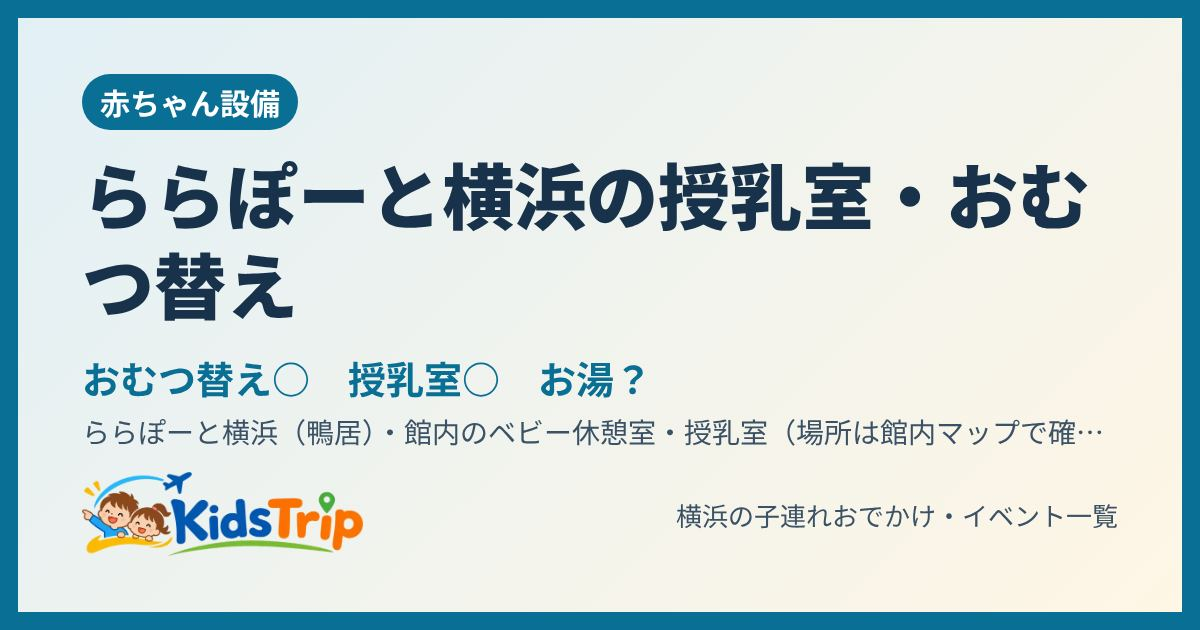
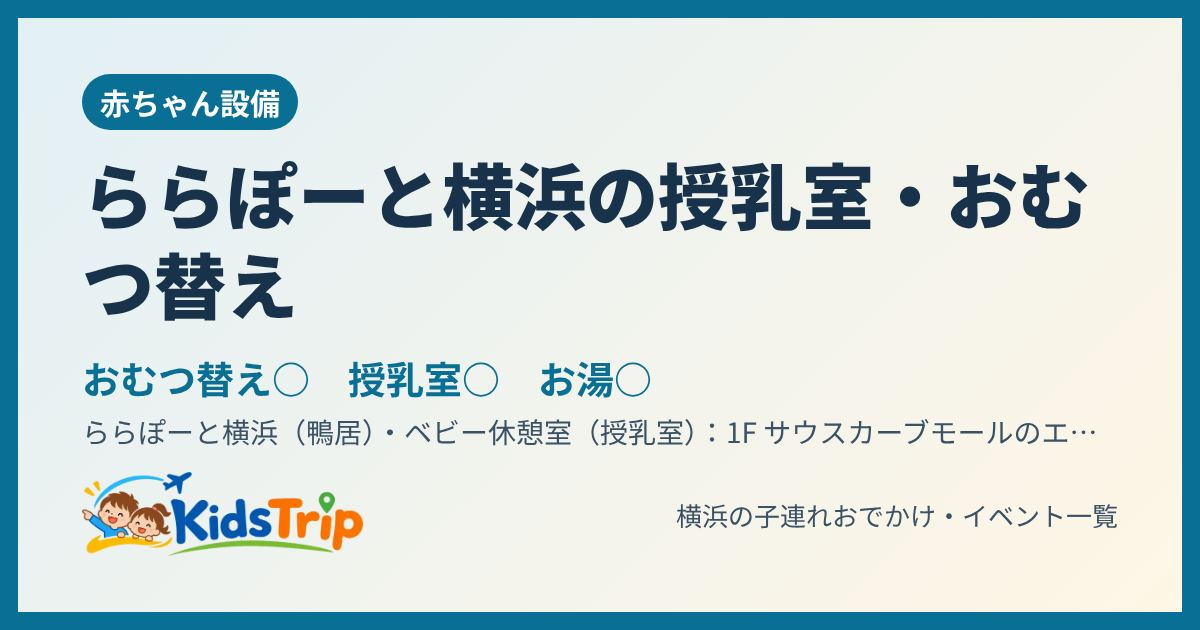
ららぽーと横浜（授乳室3か所・給湯器・レンジ・mamaroはパパ可）、こどもの国（授乳室4か所・ミルクプラントの電子レンジ・ベビーカー料金）を公式で詳しく
Claude-Session: https://claude.ai/code/session_014AtJ2fHfJAqHs7WQwJHXLv

Changed region(s): [[0.3392, 0.6635, 0.925, 0.7238], [0.4933, 0.573, 0.555, 0.6333]]

diff --git a/spot/1sx8mms/index.html b/spot/1sx8mms/index.html
@@ -3,13 +3,13 @@
 <head>
 <meta charset="utf-8">
 <meta name="viewport" content="width=device-width, initial-scale=1">
-<title>ららぽーと横浜の授乳室・おむつ替え・お湯・電子レンジ｜KidsTrip</title>
-<meta name="description" content="ららぽーと横浜（ららぽーと横浜（鴨居））の授乳室・おむつ替えの場所：館内のベビー休憩室・授乳室（場所は館内マップで確認）／設置型ベビーケアルーム「mamaro」。おむつ替え・授乳室・離乳食のレンジあり。">
+<title>ららぽーと横浜の授乳室は何階？おむつ替え・お湯・電子レンジ｜KidsTrip</title>
+<meta name="description" content="ららぽーと横浜（ららぽーと横浜（鴨居））の授乳室・おむつ替えの場所：ベビー休憩室（授乳室）：1F サウスカーブモールのエスカレーター付近／2F ノースコートのエレベーターホール横／3F ノースコートの北立体駐車場P4・5F連絡口付近。mamaro：1F セントラルモール／2F フードコート（ノースカ">
 <link rel="canonical" href="https://kidstrip.jp/spot/1sx8mms/">
 <meta property="og:type" content="article">
 <meta property="og:site_name" content="KidsTrip">
-<meta property="og:title" content="ららぽーと横浜の授乳室・おむつ替え・お湯・電子レンジ｜KidsTrip">
-<meta property="og:description" content="ららぽーと横浜（ららぽーと横浜（鴨居））の授乳室・おむつ替えの場所：館内のベビー休憩室・授乳室（場所は館内マップで確認）／設置型ベビーケアルーム「mamaro」。おむつ替え・授乳室・離乳食のレンジあり。">
+<meta property="og:title" content="ららぽーと横浜の授乳室は何階？おむつ替え・お湯・電子レンジ｜KidsTrip">
+<meta property="og:description" content="ららぽーと横浜（ららぽーと横浜（鴨居））の授乳室・おむつ替えの場所：ベビー休憩室（授乳室）：1F サウスカーブモールのエスカレーター付近／2F ノースコートのエレベーターホール横／3F ノースコートの北立体駐車場P4・5F連絡口付近。mamaro：1F セントラルモール／2F フードコート（ノースカ">
 <meta property="og:url" content="https://kidstrip.jp/spot/1sx8mms/">
 <meta property="og:image" content="https://kidstrip.jp/og/spot-1sx8mms.jpg">
 <meta property="og:image:width" content="1200">
@@ -19,7 +19,7 @@
 <link rel="icon" href="../../img/favicon.png">
 <link rel="apple-touch-icon" href="../../img/apple-touch-icon.png">
 <script type="application/ld+json">{"@context": "https://schema.org", "@type": "BreadcrumbList", "itemListElement": [{"@type": "ListItem", "position": 1, "name": "トップ", "item": "https://kidstrip.jp/"}, {"@type": "ListItem", "position": 2, "name": "ごはん・おむつ", "item": "https://kidstrip.jp/#foodall"}, {"@type": "ListItem", "position": 3, "name": "ららぽーと横浜"}]}</script>
-<script type="application/ld+json">{"@context": "https://schema.org", "@type": "Place", "name": "ららぽーと横浜", "description": "ららぽーと横浜（ららぽーと横浜（鴨居））の授乳室・おむつ替えの場所：館内のベビー休憩室・授乳室（場所は館内マップで確認）／設置型ベビーケアルーム「mamaro」。おむつ替え・授乳室・離乳食のレンジあり。", "url": "https://kidstrip.jp/spot/1sx8mms/", "image": ["https://kidstrip.jp/og/spot-1sx8mms.jpg"], "address": {"@type": "PostalAddress", "addressLocality": "横浜市", "addressRegion": "神奈川県", "addressCountry": "JP"}, "amenityFeature": [{"@type": "LocationFeatureSpecification", "name": "おむつ替え", "value": true}, {"@type": "LocationFeatureSpecification", "name": "授乳室", "value": true}, {"@type": "LocationFeatureSpecification", "name": "離乳食用の電子レンジ", "value": true}], "publicAccess": true, "sameAs": "https://mitsui-shopping-park.com/lalaport/mamawith/yokohama/", "hasMap": "https://www.google.com/maps/search/?api=1&query=ららぽーと横浜"}</script>
+<script type="application/ld+json">{"@context": "https://schema.org", "@type": "Place", "name": "ららぽーと横浜", "description": "ららぽーと横浜（ららぽーと横浜（鴨居））の授乳室・おむつ替えの場所：ベビー休憩室（授乳室）：1F サウスカーブモールのエスカレーター付近／2F ノースコートのエレベーターホール横／3F ノースコートの北立体駐車場P4・5F連絡口付近。mamaro：1F セントラルモール／2F フードコート（ノースカ", "url": "https://kidstrip.jp/spot/1sx8mms/", "image": ["https://kidstrip.jp/og/spot-1sx8mms.jpg"], "address": {"@type": "PostalAddress", "addressLocality": "横浜市", "addressRegion": "神奈川県", "addressCountry": "JP"}, "amenityFeature": [{"@type": "LocationFeatureSpecification", "name": "おむつ替え", "value": true}, {"@type": "LocationFeatureSpecification", "name": "授乳室", "value": true}, {"@type": "LocationFeatureSpecification", "name": "調乳のお湯", "value": true}, {"@type": "LocationFeatureSpecification", "name": "離乳食用の電子レンジ", "value": true}], "publicAccess": true, "sameAs": "https://mitsui-shopping-park.com/lalaport/yokohama/service/babyroom.html", "hasMap": "https://www.google.com/maps/search/?api=1&query=ららぽーと横浜"}</script>
 <style>
 :root{--paper:#f8fafc;--card:#fff;--ink:#18222e;--muted:#5b6875;--line:#dde3e9;--accent:#0a6f95;--accent-soft:#e2f0f6;--ok:#2e7d4f;--bad:#b3372b}
 *{box-sizing:border-box}body{margin:0;background:var(--paper);color:var(--ink);font-family:"Zen Kaku Gothic New","Hiragino Kaku Gothic ProN","Yu Gothic","Meiryo",sans-serif;line-height:1.7}
@@ -46,13 +46,13 @@ footer{margin:28px 0 8px;font-size:12px;color:var(--muted)}
 <p class="crumb"><a href="/">トップ</a> ＞ <a href="/#foodall">ごはん・おむつ</a> ＞ ららぽーと横浜</p>
 <article class="card">
 <h1>ららぽーと横浜の授乳室・おむつ替え・お湯</h1>
-<table class="bm"><thead><tr><th>場所</th><th>おむつ替え</th><th>授乳室</th><th>お湯</th><th>レンジ</th></tr></thead><tbody><tr><th>ららぽーと横浜</th><td class="y">○</td><td class="y">○</td><td class="u">？</td><td class="y">○</td></tr></tbody></table>
+<table class="bm"><thead><tr><th>場所</th><th>おむつ替え</th><th>授乳室</th><th>お湯</th><th>レンジ</th></tr></thead><tbody><tr><th>ららぽーと横浜</th><td class="y">○</td><td class="y">○</td><td class="y">○</td><td class="y">○</td></tr></tbody></table>
 <p class="legend">○ あり　× なし　？ 調べた範囲で確認できず</p>
-<table class="info"><tr><th>場所</th><td>館内のベビー休憩室・授乳室（場所は館内マップで確認）／設置型ベビーケアルーム「mamaro」</td></tr><tr><th>エリア</th><td>ららぽーと横浜（鴨居）</td></tr><tr><th>電子レンジ</th><td>1F サウスカーブモールと3F ノースコート（北立体駐車場P4・5F連絡口付近）の授乳室にあり。2F ノースコートの授乳室にはない（公式・2026年11月確認）</td></tr></table>
-<ul class="chips"><li>ベビーカー貸出</li><li>キッズトイレ</li><li>紙おむつの自販機（1Fの授乳室など）</li></ul>
-<p class="sum">授乳室・おむつ替えスペース・キッズトイレあり。mamaroは授乳・おむつ替え・離乳食に使える個室。お湯があるかは公式のまとめページに記載なし。</p>
-<p class="small">出典：ららぽーと横浜 公式「ママwith」（2026年11月）</p>
-<div class="btns"><a class="btn main" data-act="official" href="https://mitsui-shopping-park.com/lalaport/mamawith/yokohama/" target="_blank" rel="noopener">公式ページで確認</a>
+<table class="info"><tr><th>場所</th><td>ベビー休憩室（授乳室）：1F サウスカーブモールのエスカレーター付近／2F ノースコートのエレベーターホール横／3F ノースコートの北立体駐車場P4・5F連絡口付近。mamaro：1F セントラルモール／2F フードコート（ノースカーブモール側）／3F ダイニングストリート</td></tr><tr><th>エリア</th><td>ららぽーと横浜（鴨居）</td></tr><tr><th>電子レンジ</th><td>1F サウスカーブモールと3F ノースコート（北立体駐車場P4・5F連絡口付近）の授乳室にあり。2F ノースコートの授乳室にはない（公式・2026年11月20日確認）</td></tr></table>
+<ul class="chips"><li>調乳用給湯器（3か所の授乳室すべて）</li><li>電子レンジ（1F・3Fの授乳室）</li><li>紙おむつの自販機（1F・2Fの授乳室・1枚100円・M・L）</li><li>mamaro（1F・2F・3F・パパも使える）</li><li>ベビーカー貸出</li><li>キッズトイレ</li></ul>
+<p class="sum">授乳室は1F・2F・3Fの3か所で、どこにも調乳用の給湯器がある。電子レンジは1Fと3F、紙おむつの自販機は1Fと2F。完全個室のmamaroは3か所にあり、授乳・おむつ替え・離乳食に使え、パパも使える。</p>
+<p class="small">出典：ららぽーと横浜 公式（ベビー休憩室・2026年11月20日確認）</p>
+<div class="btns"><a class="btn main" data-act="official" href="https://mitsui-shopping-park.com/lalaport/yokohama/service/babyroom.html" target="_blank" rel="noopener">公式ページで確認</a>
 <a class="btn" href="https://www.google.com/maps/search/?api=1&amp;query=ららぽーと横浜" target="_blank" rel="noopener">地図で見る</a>
 <button type="button" class="btn" data-share="1">🔗 リンクを送る・コピー</button></div>
 </article>

diff --git a/spot/h4ssx4/index.html b/spot/h4ssx4/index.html
@@ -3,13 +3,13 @@
 <head>
 <meta charset="utf-8">
 <meta name="viewport" content="width=device-width, initial-scale=1">
-<title>こどもの国の授乳室・おむつ替え・お湯｜KidsTrip</title>
-<meta name="description" content="こどもの国の授乳室・おむつ替えの場所：おむつ交換台は男性・女性・バリアフリートイレ／授乳室4室。おむつ替え・授乳室・調乳のお湯あり。">
+<title>こどもの国の授乳室・おむつ替え・お湯・電子レンジ｜KidsTrip</title>
+<meta name="description" content="こどもの国の授乳室・おむつ替えの場所：授乳室4か所：遊具広場・白鳥湖・自転車のりば・ミルクプラント／園内の主なトイレにおむつ替えベッド（男性・女性・バリアフリートイレ）。おむつ替え・授乳室・調乳のお湯・離乳食のレンジあり。">
 <link rel="canonical" href="https://kidstrip.jp/spot/h4ssx4/">
 <meta property="og:type" content="article">
 <meta property="og:site_name" content="KidsTrip">
-<meta property="og:title" content="こどもの国の授乳室・おむつ替え・お湯｜KidsTrip">
-<meta property="og:description" content="こどもの国の授乳室・おむつ替えの場所：おむつ交換台は男性・女性・バリアフリートイレ／授乳室4室。おむつ替え・授乳室・調乳のお湯あり。">
+<meta property="og:title" content="こどもの国の授乳室・おむつ替え・お湯・電子レンジ｜KidsTrip">
+<meta property="og:description" content="こどもの国の授乳室・おむつ替えの場所：授乳室4か所：遊具広場・白鳥湖・自転車のりば・ミルクプラント／園内の主なトイレにおむつ替えベッド（男性・女性・バリアフリートイレ）。おむつ替え・授乳室・調乳のお湯・離乳食のレンジあり。">
 <meta property="og:url" content="https://kidstrip.jp/spot/h4ssx4/">
 <meta property="og:image" content="https://kidstrip.jp/og/spot-h4ssx4.jpg">
 <meta property="og:image:width" content="1200">
@@ -19,7 +19,7 @@
 <link rel="icon" href="../../img/favicon.png">
 <link rel="apple-touch-icon" href="../../img/apple-touch-icon.png">
 <script type="application/ld+json">{"@context": "https://schema.org", "@type": "BreadcrumbList", "itemListElement": [{"@type": "ListItem", "position": 1, "name": "トップ", "item": "https://kidstrip.jp/"}, {"@type": "ListItem", "position": 2, "name": "ごはん・おむつ", "item": "https://kidstrip.jp/#foodall"}, {"@type": "ListItem", "position": 3, "name": "こどもの国"}]}</script>
-<script type="application/ld+json">{"@context": "https://schema.org", "@type": "Place", "name": "こどもの国", "description": "こどもの国の授乳室・おむつ替えの場所：おむつ交換台は男性・女性・バリアフリートイレ／授乳室4室。おむつ替え・授乳室・調乳のお湯あり。", "url": "https://kidstrip.jp/spot/h4ssx4/", "image": ["https://kidstrip.jp/og/spot-h4ssx4.jpg"], "address": {"@type": "PostalAddress", "addressLocality": "横浜市", "addressRegion": "神奈川県", "addressCountry": "JP"}, "amenityFeature": [{"@type": "LocationFeatureSpecification", "name": "おむつ替え", "value": true}, {"@type": "LocationFeatureSpecification", "name": "授乳室", "value": true}, {"@type": "LocationFeatureSpecification", "name": "調乳のお湯", "value": true}], "publicAccess": true, "sameAs": "https://www.welcome.city.yokohama.jp/accessibility/spot/details.php?sid=116", "hasMap": "https://www.google.com/maps/search/?api=1&query=こどもの国"}</script>
+<script type="application/ld+json">{"@context": "https://schema.org", "@type": "Place", "name": "こどもの国", "description": "こどもの国の授乳室・おむつ替えの場所：授乳室4か所：遊具広場・白鳥湖・自転車のりば・ミルクプラント／園内の主なトイレにおむつ替えベッド（男性・女性・バリアフリートイレ）。おむつ替え・授乳室・調乳のお湯・離乳食のレンジあり。", "url": "https://kidstrip.jp/spot/h4ssx4/", "image": ["https://kidstrip.jp/og/spot-h4ssx4.jpg"], "address": {"@type": "PostalAddress", "addressLocality": "横浜市", "addressRegion": "神奈川県", "addressCountry": "JP"}, "amenityFeature": [{"@type": "LocationFeatureSpecification", "name": "おむつ替え", "value": true}, {"@type": "LocationFeatureSpecification", "name": "授乳室", "value": true}, {"@type": "LocationFeatureSpecification", "name": "調乳のお湯", "value": true}, {"@type": "LocationFeatureSpecification", "name": "離乳食用の電子レンジ", "value": true}], "publicAccess": true, "sameAs": "https://www.kodomonokuni.org/infants/", "hasMap": "https://www.google.com/maps/search/?api=1&query=こどもの国"}</script>
 <style>
 :root{--paper:#f8fafc;--card:#fff;--ink:#18222e;--muted:#5b6875;--line:#dde3e9;--accent:#0a6f95;--accent-soft:#e2f0f6;--ok:#2e7d4f;--bad:#b3372b}
 *{box-sizing:border-box}body{margin:0;background:var(--paper);color:var(--ink);font-family:"Zen Kaku Gothic New","Hiragino Kaku Gothic ProN","Yu Gothic","Meiryo",sans-serif;line-height:1.7}
@@ -46,13 +46,13 @@ footer{margin:28px 0 8px;font-size:12px;color:var(--muted)}
 <p class="crumb"><a href="/">トップ</a> ＞ <a href="/#foodall">ごはん・おむつ</a> ＞ こどもの国</p>
 <article class="card">
 <h1>こどもの国の授乳室・おむつ替え・お湯</h1>
-<table class="bm"><thead><tr><th>場所</th><th>おむつ替え</th><th>授乳室</th><th>お湯</th><th>レンジ</th></tr></thead><tbody><tr><th>こどもの国</th><td class="y">○</td><td class="y">○</td><td class="y">○</td><td class="u">？</td></tr></tbody></table>
+<table class="bm"><thead><tr><th>場所</th><th>おむつ替え</th><th>授乳室</th><th>お湯</th><th>レンジ</th></tr></thead><tbody><tr><th>こどもの国</th><td class="y">○</td><td class="y">○</td><td class="y">○</td><td class="y">○</td></tr></tbody></table>
 <p class="legend">○ あり　× なし　？ 調べた範囲で確認できず</p>
-<table class="info"><tr><th>場所</th><td>おむつ交換台は男性・女性・バリアフリートイレ／授乳室4室</td></tr><tr><th>エリア</th><td>こどもの国</td></tr></table>
-<ul class="chips"><li>ベビーカー貸出</li><li>乳幼児用いす付きの個室</li><li>ベビーカー置き場あり（専用マップあり）</li></ul>
-<p class="sum">調乳用のお湯あり。</p>
-<p class="small">出典：横浜市観光情報サイト バリアフリー情報（2024年10月更新）</p>
-<div class="btns"><a class="btn main" data-act="official" href="https://www.welcome.city.yokohama.jp/accessibility/spot/details.php?sid=116" target="_blank" rel="noopener">公式ページで確認</a>
+<table class="info"><tr><th>場所</th><td>授乳室4か所：遊具広場・白鳥湖・自転車のりば・ミルクプラント／園内の主なトイレにおむつ替えベッド（男性・女性・バリアフリートイレ）</td></tr><tr><th>エリア</th><td>こどもの国</td></tr><tr><th>電子レンジ</th><td>ミルクプラントの授乳室（こどもの国 公式・2026年11月20日確認）</td></tr></table>
+<ul class="chips"><li>電子レンジ（ミルクプラントの授乳室だけ）</li><li>粉ミルク用給湯器（遊具広場・白鳥湖・自転車のりば）</li><li>ベビーカーレンタル：A型1,000円（うち保証料500円は返却時に返金・生後1か月〜4歳・18kgまで・雨の日は中止）／B型300円（うち保証料100円・生後7か月ごろから）。正面入口と牧場口の改札で</li><li>0〜3歳用の遊具がある「なかよし広場 すくすくアイランド」（正面入口の近く）</li><li>迷子シール（正面入口横の案内所）</li></ul>
+<p class="sum">授乳室は園内に4か所あり、ベッドやベンチが使える。遊具広場・白鳥湖・自転車のりばには粉ミルク用の給湯器、ミルクプラントには電子レンジとポットのお湯がある。遊具広場と自転車のりばには母乳ブースも。ベビーカーは改札の外には持ち出せない。</p>
+<p class="small">出典：こどもの国 公式（乳幼児連れの方へ・2026年11月20日確認）・横浜市観光情報サイト バリアフリー情報</p>
+<div class="btns"><a class="btn main" data-act="official" href="https://www.kodomonokuni.org/infants/" target="_blank" rel="noopener">公式ページで確認</a>
 <a class="btn" href="https://www.google.com/maps/search/?api=1&amp;query=こどもの国" target="_blank" rel="noopener">地図で見る</a>
 <button type="button" class="btn" data-share="1">🔗 リンクを送る・コピー</button></div>
 </article>

diff --git a/js/data.js b/js/data.js
@@ -584,8 +584,8 @@ const BABY = {
       note:"授乳室はないので、授乳ケープがあると安心です。", url:"https://www.welcome.city.yokohama.jp/accessibility/spot/details.php?sid=87", src:"横浜市観光情報サイト バリアフリー情報（施設一覧・2026年11月確認）" }
   ],
   "kodomonokuni": [
-    { n:"こどもの国", where:"おむつ交換台は男性・女性・バリアフリートイレ／授乳室4室", d:true, f:true, w:true, ex:["ベビーカー貸出","乳幼児用いす付きの個室","ベビーカー置き場あり（専用マップあり）"],
-      note:"調乳用のお湯あり。", url:"https://www.welcome.city.yokohama.jp/accessibility/spot/details.php?sid=116", src:"横浜市観光情報サイト バリアフリー情報（2024年10月更新）" }
+    { n:"こどもの国", where:"授乳室4か所：遊具広場・白鳥湖・自転車のりば・ミルクプラント／園内の主なトイレにおむつ替えベッド（男性・女性・バリアフリートイレ）", d:true, f:true, w:true, mw:true, mwText:"ミルクプラントの授乳室（こどもの国 公式・2026年11月20日確認）", ex:["電子レンジ（ミルクプラントの授乳室だけ）","粉ミルク用給湯器（遊具広場・白鳥湖・自転車のりば）","ベビーカーレンタル：A型1,000円（うち保証料500円は返却時に返金・生後1か月〜4歳・18kgまで・雨の日は中止）／B型300円（うち保証料100円・生後7か月ごろから）。正面入口と牧場口の改札で","0〜3歳用の遊具がある「なかよし広場 すくすくアイランド」（正面入口の近く）","迷子シール（正面入口横の案内所）"],
+      note:"授乳室は園内に4か所あり、ベッドやベンチが使える。遊具広場・白鳥湖・自転車のりばには粉ミルク用の給湯器、ミルクプラントには電子レンジとポットのお湯がある。遊具広場と自転車のりばには母乳ブースも。ベビーカーは改札の外には持ち出せない。", url:"https://www.kodomonokuni.org/infants/", src:"こどもの国 公式（乳幼児連れの方へ・2026年11月20日確認）・横浜市観光情報サイト バリアフリー情報" }
   ],
   "zoorasia": [
     { n:"よこはま動物園ズーラシア", where:"授乳室5室／おむつ交換台は女性トイレに22台（場所は園内マップで確認）", d:true, f:true, w:true, ex:["ベビーカー貸出（有料の場合あり）","乳幼児用いす付きの個室（男女とも）","男女別のバリアフリートイレ"],
@@ -608,8 +608,8 @@ const BABY = {
       note:"4Fのベビールームにおむつ替えベッド5台・おむつの自販機・給湯設備（70℃）・洗面台・授乳の個室3ブース。男性は授乳スペースには入れないが、それ以外は入れる。5Fのmamaroは授乳・おむつ替えができ、男性も使える。電子レンジは公式ページに記載なし。ベビーカーは1Fで無料貸出（9台・10:00〜20:00）。センター北駅前。", url:"https://www.mosaicmall.jp/facility/index.html", src:"モザイクモール港北 公式（施設・サービス案内・2026年11月19日確認）" }
   ],
   "lalaport": [
-    { n:"ららぽーと横浜", mw:true, mwText:"1F サウスカーブモールと3F ノースコート（北立体駐車場P4・5F連絡口付近）の授乳室にあり。2F ノースコートの授乳室にはない（公式・2026年11月確認）", where:"館内のベビー休憩室・授乳室（場所は館内マップで確認）／設置型ベビーケアルーム「mamaro」", d:true, f:true, w:null, ex:["ベビーカー貸出","キッズトイレ","紙おむつの自販機（1Fの授乳室など）"],
-      note:"授乳室・おむつ替えスペース・キッズトイレあり。mamaroは授乳・おむつ替え・離乳食に使える個室。お湯があるかは公式のまとめページに記載なし。", url:"https://mitsui-shopping-park.com/lalaport/mamawith/yokohama/", src:"ららぽーと横浜 公式「ママwith」（2026年11月）" }
+    { n:"ららぽーと横浜", mw:true, mwText:"1F サウスカーブモールと3F ノースコート（北立体駐車場P4・5F連絡口付近）の授乳室にあり。2F ノースコートの授乳室にはない（公式・2026年11月20日確認）", where:"ベビー休憩室（授乳室）：1F サウスカーブモールのエスカレーター付近／2F ノースコートのエレベーターホール横／3F ノースコートの北立体駐車場P4・5F連絡口付近。mamaro：1F セントラルモール／2F フードコート（ノースカーブモール側）／3F ダイニングストリート", d:true, f:true, w:true, ex:["調乳用給湯器（3か所の授乳室すべて）","電子レンジ（1F・3Fの授乳室）","紙おむつの自販機（1F・2Fの授乳室・1枚100円・M・L）","mamaro（1F・2F・3F・パパも使える）","ベビーカー貸出","キッズトイレ"],
+      note:"授乳室は1F・2F・3Fの3か所で、どこにも調乳用の給湯器がある。電子レンジは1Fと3F、紙おむつの自販機は1Fと2F。完全個室のmamaroは3か所にあり、授乳・おむつ替え・離乳食に使え、パパも使える。", url:"https://mitsui-shopping-park.com/lalaport/yokohama/service/babyroom.html", src:"ららぽーと横浜 公式（ベビー休憩室・2026年11月20日確認）" }
   ],
   "tressa": [
     { n:"トレッサ横浜", where:"ベビー休憩室4か所：北棟3F「森の授乳室」・南棟3F「ベビールーム」・南棟2F「グルメタウン」・南棟1F「オリーブ広場」", d:true, f:true, w:true, mw:true, mwText:"4か所の授乳室すべて（トレッサ横浜 公式サイトの記事「トレパト」2023年3月・2025年8月）", ex:["ベビーカー・車型カート貸出（100円返却式）","キッズトイレ（北棟3F・南棟2F）","一時預かり託児所（南棟1F）"],

diff --git a/event/k098lw/index.html b/event/k098lw/index.html
@@ -64,7 +64,7 @@ footer{margin:28px 0 8px;font-size:12px;color:var(--muted)}
 <button type="button" class="btn" data-share="1">🔗 リンクを送る・コピー</button>
 <a class="btn line" href="https://line.me/R/share?text=%E3%80%90%E3%83%9D%E3%83%9D%E3%83%A9%E3%82%B5%E3%83%86%E3%83%A9%E3%82%A4%E3%83%88%EF%BC%88%E9%83%BD%E7%AD%91%E5%8C%BA%E3%81%AE%E5%9C%B0%E5%9F%9F%E5%AD%90%E8%82%B2%E3%81%A6%E6%94%AF%E6%8F%B4%E6%8B%A0%E7%82%B9%EF%BC%89%E3%80%91%0A%E3%81%B5%E3%81%A0%E3%82%93%E9%96%8B%E3%81%84%E3%81%A6%E3%81%84%E3%82%8B%EF%BC%88%E4%BC%91%E9%A4%A8%E6%97%A5%E3%81%AF%E8%A6%81%E7%A2%BA%E8%AA%8D%EF%BC%89%E3%80%80%E9%96%8B%E9%A4%A8%E6%97%A5%E3%83%BB%E6%99%82%E9%96%93%E3%81%AF%E5%85%AC%E5%BC%8F%E3%83%9A%E3%83%BC%E3%82%B8%E3%81%A7%E7%A2%BA%E8%AA%8D%0A%E5%A0%B4%E6%89%80%EF%BC%9A%E9%83%BD%E7%AD%91%E5%8C%BA%E3%83%BB%E3%83%9D%E3%83%9D%E3%83%A9%E3%82%B5%E3%83%86%E3%83%A9%E3%82%A4%E3%83%88%EF%BC%88%E6%B1%A0%E8%BE%BA%E7%94%BA4035-1%20%E3%82%89%E3%82%89%E3%81%BD%E3%83%BC%E3%81%A8%E6%A8%AA%E6%B5%9C3%E9%9A%8E%EF%BC%89%0Ahttps%3A//kidstrip.jp/event/k098lw/" target="_blank" rel="noopener">LINEで送る</a></div>
 </article>
-<h2>歩いて10分以内のおむつ替え・授乳室・お湯</h2><table class="bm"><thead><tr><th>場所</th><th>おむつ替え</th><th>授乳室</th><th>お湯</th><th>レンジ</th></tr></thead><tbody><tr><th scope="row"><a href="/spot/1sx8mms/">ららぽーと横浜</a></th><td class="y">○</td><td class="y">○</td><td class="u">？</td><td class="y">○</td></tr></tbody></table><p class="legend">○ あり　× なし　？ 調べた範囲で確認できず</p>
+<h2>歩いて10分以内のおむつ替え・授乳室・お湯</h2><table class="bm"><thead><tr><th>場所</th><th>おむつ替え</th><th>授乳室</th><th>お湯</th><th>レンジ</th></tr></thead><tbody><tr><th scope="row"><a href="/spot/1sx8mms/">ららぽーと横浜</a></th><td class="y">○</td><td class="y">○</td><td class="y">○</td><td class="y">○</td></tr></tbody></table><p class="legend">○ あり　× なし　？ 調べた範囲で確認できず</p>
 <h2>行き方のめやす</h2><ul class="links"><li>🚃 最寄り センター北駅（ブルーライン・グリーンライン）・エレベーターあり・駅でおむつ替え◎</li></ul>
 <h2>歩いて10分以内の子連れで入りやすいごはん</h2><ul class="links food"><li><b>洋麺屋五右衛門 ららぽーと横浜店（3F）</b>（パスタ）　ベビーカーで約1分<span class="tag">子ども用の椅子あり</span><span class="tag">禁煙</span></li><li><b>ららぽーと横浜 フードコート</b>（フードコート）　ベビーカーで約1分</li></ul><p class="small">時間はベビーカーで歩いたときのめやす（直線距離から計算）。メニューや営業時間は行く前にお店で確かめてください。</p>
 <h2>歩いて15分以内でベビー服・子ども服・靴が買えるお店</h2><ul class="links food"><li><a href="https://mitsui-shopping-park.com/lalaport/yokohama/shopguide/2907084.html" target="_blank" rel="noopener">ABC-MART ららぽーと横浜店</a><span class="tag">子どもの靴</span>　平日10:00〜20:00、土日祝10:00〜21:00　ベビーカーで約1分</li><li><a href="https://map.gu-global.com/jp/ja/" target="_blank" rel="noopener">GU ららぽーと横浜店</a><span class="tag">キッズ</span>　公式の店舗ページで確認してください（キッズ服あり・ベビー服はなし）　ベビーカーで約1分</li><li><a href="https://map.uniqlo.com/jp/ja/" target="_blank" rel="noopener">ユニクロ ららぽーと横浜店</a><span class="tag">ベビー・キッズ</span>　公式の店舗ページで確認してください　ベビーカーで約1分</li><li><a href="https://www.narumiya-online.jp/staffblog/store/s50101001/" target="_blank" rel="noopener">プティマイン ららぽーと横浜店</a><span class="tag">ベビー・キッズ</span>　平日10:00〜20:00、土日祝10:00〜21:00　ベビーカーで約1分</li><li><a href="https://stores.akachan.jp/139" target="_blank" rel="noopener">アカチャンホンポ ららぽーと横浜店</a><span class="tag">ベビー・キッズ・子どもの靴</span>　平日10:00〜20:00、土日祝10:00〜21:00　ベビーカーで約1分</li></ul><p class="small">急なおもらし・汚れの着替えや、靴を忘れたときに。時間は直線距離からのめやす。在庫・営業時間はお店で確かめてください（出典：各チェーン公式の店舗検索）。</p>

diff --git a/event/11ylfka/index.html b/event/11ylfka/index.html
@@ -64,7 +64,7 @@ footer{margin:28px 0 8px;font-size:12px;color:var(--muted)}
 <button type="button" class="btn" data-share="1">🔗 リンクを送る・コピー</button>
 <a class="btn line" href="https://line.me/R/share?text=%E3%80%90%E3%83%89%E3%83%A9%E3%81%88%E3%82%82%E3%82%93%E3%80%8C%E6%9C%AA%E6%9D%A5%E3%81%8B%E3%82%89%E3%81%8D%E3%81%9F%EF%BC%81%E3%81%B2%E3%81%BF%E3%81%A4%E9%81%93%E5%85%B7%E3%83%84%E3%83%AA%E3%83%BC%E3%80%8D%EF%BC%88%E3%82%89%E3%82%89%E3%81%BD%E3%83%BC%E3%81%A8%E6%A8%AA%E6%B5%9C%EF%BC%89%E3%80%91%0A%E4%BC%9A%E6%9C%9F%2011/30%E3%80%9C12/25%E3%80%80%E5%85%AC%E5%BC%8F%E3%83%9A%E3%83%BC%E3%82%B8%E3%81%AB%E8%A8%98%E8%BC%89%E3%81%AA%E3%81%97%EF%BC%88%E6%96%BD%E8%A8%AD%E3%81%AE%E5%96%B6%E6%A5%AD%E6%99%82%E9%96%93%E5%86%85%EF%BC%89%0A%E5%A0%B4%E6%89%80%EF%BC%9A%E9%83%BD%E7%AD%91%E5%8C%BA%E3%83%BB%E3%82%89%E3%82%89%E3%81%BD%E3%83%BC%E3%81%A8%E6%A8%AA%E6%B5%9C%EF%BC%88%E9%A4%A8%E5%86%85%E3%81%AE%E5%A0%B4%E6%89%80%E3%81%AF%E5%85%AC%E5%BC%8F%E3%83%9A%E3%83%BC%E3%82%B8%E3%81%AB%E8%A8%98%E8%BC%89%E3%81%AA%E3%81%97%EF%BC%89%0Ahttps%3A//kidstrip.jp/event/11ylfka/" target="_blank" rel="noopener">LINEで送る</a></div>
 </article>
-<h2>歩いて10分以内のおむつ替え・授乳室・お湯</h2><table class="bm"><thead><tr><th>場所</th><th>おむつ替え</th><th>授乳室</th><th>お湯</th><th>レンジ</th></tr></thead><tbody><tr><th scope="row"><a href="/spot/1sx8mms/">ららぽーと横浜</a></th><td class="y">○</td><td class="y">○</td><td class="u">？</td><td class="y">○</td></tr></tbody></table><p class="legend">○ あり　× なし　？ 調べた範囲で確認できず</p>
+<h2>歩いて10分以内のおむつ替え・授乳室・お湯</h2><table class="bm"><thead><tr><th>場所</th><th>おむつ替え</th><th>授乳室</th><th>お湯</th><th>レンジ</th></tr></thead><tbody><tr><th scope="row"><a href="/spot/1sx8mms/">ららぽーと横浜</a></th><td class="y">○</td><td class="y">○</td><td class="y">○</td><td class="y">○</td></tr></tbody></table><p class="legend">○ あり　× なし　？ 調べた範囲で確認できず</p>
 
 <h2>歩いて10分以内の子連れで入りやすいごはん</h2><ul class="links food"><li><b>洋麺屋五右衛門 ららぽーと横浜店（3F）</b>（パスタ）　ベビーカーで約1分<span class="tag">子ども用の椅子あり</span><span class="tag">禁煙</span></li><li><b>ららぽーと横浜 フードコート</b>（フードコート）　ベビーカーで約1分</li></ul><p class="small">時間はベビーカーで歩いたときのめやす（直線距離から計算）。メニューや営業時間は行く前にお店で確かめてください。</p>
 <h2>歩いて15分以内でベビー服・子ども服・靴が買えるお店</h2><ul class="links food"><li><a href="https://mitsui-shopping-park.com/lalaport/yokohama/shopguide/2907084.html" target="_blank" rel="noopener">ABC-MART ららぽーと横浜店</a><span class="tag">子どもの靴</span>　平日10:00〜20:00、土日祝10:00〜21:00　ベビーカーで約1分</li><li><a href="https://map.gu-global.com/jp/ja/" target="_blank" rel="noopener">GU ららぽーと横浜店</a><span class="tag">キッズ</span>　公式の店舗ページで確認してください（キッズ服あり・ベビー服はなし）　ベビーカーで約1分</li><li><a href="https://map.uniqlo.com/jp/ja/" target="_blank" rel="noopener">ユニクロ ららぽーと横浜店</a><span class="tag">ベビー・キッズ</span>　公式の店舗ページで確認してください　ベビーカーで約1分</li><li><a href="https://www.narumiya-online.jp/staffblog/store/s50101001/" target="_blank" rel="noopener">プティマイン ららぽーと横浜店</a><span class="tag">ベビー・キッズ</span>　平日10:00〜20:00、土日祝10:00〜21:00　ベビーカーで約1分</li><li><a href="https://stores.akachan.jp/139" target="_blank" rel="noopener">アカチャンホンポ ららぽーと横浜店</a><span class="tag">ベビー・キッズ・子どもの靴</span>　平日10:00〜20:00、土日祝10:00〜21:00　ベビーカーで約1分</li></ul><p class="small">急なおもらし・汚れの着替えや、靴を忘れたときに。時間は直線距離からのめやす。在庫・営業時間はお店で確かめてください（出典：各チェーン公式の店舗検索）。</p>

diff --git a/event/sbzc73/index.html b/event/sbzc73/index.html
@@ -64,7 +64,7 @@ footer{margin:28px 0 8px;font-size:12px;color:var(--muted)}
 <button type="button" class="btn" data-share="1">🔗 リンクを送る・コピー</button>
 <a class="btn line" href="https://line.me/R/share?text=%E3%80%90%E3%83%87%E3%82%A3%E3%83%8E%E3%82%B0%E3%83%A9%E3%83%B3%E3%83%97%E3%83%AA%EF%BC%81%EF%BC%88%E6%81%90%E7%AB%9C%E3%82%92%E3%81%AC%E3%81%A3%E3%81%A6%E8%B5%B0%E3%82%89%E3%81%9B%E3%82%8B%E3%83%87%E3%82%B8%E3%82%BF%E3%83%AB%E4%BD%93%E9%A8%93%EF%BC%89%E3%80%91%0A11%E6%9C%8828%E6%97%A5%28%E5%9C%9F%29%E3%83%BB11%E6%9C%8829%E6%97%A5%28%E6%97%A5%29%E3%80%8010%3A00%E3%80%9C17%3A00%EF%BC%881%E5%9B%9E%E7%B4%8415%E5%88%86%EF%BC%89%0A%E5%A0%B4%E6%89%80%EF%BC%9A%E9%83%BD%E7%AD%91%E5%8C%BA%E3%83%BB%E3%82%89%E3%82%89%E3%81%BD%E3%83%BC%E3%81%A8%E6%A8%AA%E6%B5%9C%203F%20%E3%83%8E%E3%83%BC%E3%82%B9%E3%82%AB%E3%83%BC%E3%83%96%E3%83%A2%E3%83%BC%E3%83%AB%0Ahttps%3A//kidstrip.jp/event/sbzc73/" target="_blank" rel="noopener">LINEで送る</a></div>
 </article>
-<h2>近くのおむつ替え・授乳室・お湯（ららぽーと横浜（鴨居））</h2><table class="bm"><thead><tr><th>場所</th><th>おむつ替え</th><th>授乳室</th><th>お湯</th><th>レンジ</th></tr></thead><tbody><tr><th scope="row"><a href="/spot/1sx8mms/">ららぽーと横浜</a></th><td class="y">○</td><td class="y">○</td><td class="u">？</td><td class="y">○</td></tr></tbody></table><p class="legend">○ あり　× なし　？ 調べた範囲で確認できず</p>
+<h2>近くのおむつ替え・授乳室・お湯（ららぽーと横浜（鴨居））</h2><table class="bm"><thead><tr><th>場所</th><th>おむつ替え</th><th>授乳室</th><th>お湯</th><th>レンジ</th></tr></thead><tbody><tr><th scope="row"><a href="/spot/1sx8mms/">ららぽーと横浜</a></th><td class="y">○</td><td class="y">○</td><td class="y">○</td><td class="y">○</td></tr></tbody></table><p class="legend">○ あり　× なし　？ 調べた範囲で確認できず</p>
 
 <h2>歩いて10分以内の子連れで入りやすいごはん</h2><ul class="links food"><li><b>洋麺屋五右衛門 ららぽーと横浜店（3F）</b>（パスタ）　ベビーカーで約1分<span class="tag">子ども用の椅子あり</span><span class="tag">禁煙</span></li><li><b>ららぽーと横浜 フードコート</b>（フードコート）　ベビーカーで約1分</li></ul><p class="small">時間はベビーカーで歩いたときのめやす（直線距離から計算）。メニューや営業時間は行く前にお店で確かめてください。</p>
 <h2>歩いて15分以内でベビー服・子ども服・靴が買えるお店</h2><ul class="links food"><li><a href="https://mitsui-shopping-park.com/lalaport/yokohama/shopguide/2907084.html" target="_blank" rel="noopener">ABC-MART ららぽーと横浜店</a><span class="tag">子どもの靴</span>　平日10:00〜20:00、土日祝10:00〜21:00　ベビーカーで約1分</li><li><a href="https://map.gu-global.com/jp/ja/" target="_blank" rel="noopener">GU ららぽーと横浜店</a><span class="tag">キッズ</span>　公式の店舗ページで確認してください（キッズ服あり・ベビー服はなし）　ベビーカーで約1分</li><li><a href="https://map.uniqlo.com/jp/ja/" target="_blank" rel="noopener">ユニクロ ららぽーと横浜店</a><span class="tag">ベビー・キッズ</span>　公式の店舗ページで確認してください　ベビーカーで約1分</li><li><a href="https://www.narumiya-online.jp/staffblog/store/s50101001/" target="_blank" rel="noopener">プティマイン ららぽーと横浜店</a><span class="tag">ベビー・キッズ</span>　平日10:00〜20:00、土日祝10:00〜21:00　ベビーカーで約1分</li><li><a href="https://stores.akachan.jp/139" target="_blank" rel="noopener">アカチャンホンポ ららぽーと横浜店</a><span class="tag">ベビー・キッズ・子どもの靴</span>　平日10:00〜20:00、土日祝10:00〜21:00　ベビーカーで約1分</li></ul><p class="small">急なおもらし・汚れの着替えや、靴を忘れたときに。時間は直線距離からのめやす。在庫・営業時間はお店で確かめてください（出典：各チェーン公式の店舗検索）。</p>

diff --git a/event/ptcbwy/index.html b/event/ptcbwy/index.html
@@ -64,7 +64,7 @@ footer{margin:28px 0 8px;font-size:12px;color:var(--muted)}
 <button type="button" class="btn" data-share="1">🔗 リンクを送る・コピー</button>
 <a class="btn line" href="https://line.me/R/share?text=%E3%80%90%E3%82%A2%E3%83%89%E3%83%99%E3%83%B3%E3%83%81%E3%83%A3%E3%83%BC%E3%82%A2%E3%82%A4%E3%83%A9%E3%83%B3%E3%83%89%20%E3%82%89%E3%82%89%E3%81%BD%E3%83%BC%E3%81%A8%E6%A8%AA%E6%B5%9C%E3%80%91%0A%E3%81%84%E3%81%A4%E3%81%A7%E3%82%82%EF%BC%88%E9%80%9A%E5%B9%B4%E3%81%AE%E6%96%BD%E8%A8%AD%EF%BC%89%E3%80%80%E6%96%BD%E8%A8%AD%E3%81%AE%E5%96%B6%E6%A5%AD%E6%99%82%E9%96%93%E5%86%85%0A%E5%A0%B4%E6%89%80%EF%BC%9A%E9%83%BD%E7%AD%91%E5%8C%BA%E3%83%BB%E3%82%89%E3%82%89%E3%81%BD%E3%83%BC%E3%81%A8%E6%A8%AA%E6%B5%9C%202%E9%9A%8E%0Ahttps%3A//kidstrip.jp/event/ptcbwy/" target="_blank" rel="noopener">LINEで送る</a></div>
 </article>
-<h2>近くのおむつ替え・授乳室・お湯（ららぽーと横浜（鴨居））</h2><table class="bm"><thead><tr><th>場所</th><th>おむつ替え</th><th>授乳室</th><th>お湯</th><th>レンジ</th></tr></thead><tbody><tr><th scope="row"><a href="/spot/1sx8mms/">ららぽーと横浜</a></th><td class="y">○</td><td class="y">○</td><td class="u">？</td><td class="y">○</td></tr></tbody></table><p class="legend">○ あり　× なし　？ 調べた範囲で確認できず</p>
+<h2>近くのおむつ替え・授乳室・お湯（ららぽーと横浜（鴨居））</h2><table class="bm"><thead><tr><th>場所</th><th>おむつ替え</th><th>授乳室</th><th>お湯</th><th>レンジ</th></tr></thead><tbody><tr><th scope="row"><a href="/spot/1sx8mms/">ららぽーと横浜</a></th><td class="y">○</td><td class="y">○</td><td class="y">○</td><td class="y">○</td></tr></tbody></table><p class="legend">○ あり　× なし　？ 調べた範囲で確認できず</p>
 
 <h2>歩いて10分以内の子連れで入りやすいごはん</h2><ul class="links food"><li><b>洋麺屋五右衛門 ららぽーと横浜店（3F）</b>（パスタ）　ベビーカーで約1分<span class="tag">子ども用の椅子あり</span><span class="tag">禁煙</span></li><li><b>ららぽーと横浜 フードコート</b>（フードコート）　ベビーカーで約1分</li></ul><p class="small">時間はベビーカーで歩いたときのめやす（直線距離から計算）。メニューや営業時間は行く前にお店で確かめてください。</p>
 <h2>歩いて15分以内でベビー服・子ども服・靴が買えるお店</h2><ul class="links food"><li><a href="https://mitsui-shopping-park.com/lalaport/yokohama/shopguide/2907084.html" target="_blank" rel="noopener">ABC-MART ららぽーと横浜店</a><span class="tag">子どもの靴</span>　平日10:00〜20:00、土日祝10:00〜21:00　ベビーカーで約1分</li><li><a href="https://map.gu-global.com/jp/ja/" target="_blank" rel="noopener">GU ららぽーと横浜店</a><span class="tag">キッズ</span>　公式の店舗ページで確認してください（キッズ服あり・ベビー服はなし）　ベビーカーで約1分</li><li><a href="https://map.uniqlo.com/jp/ja/" target="_blank" rel="noopener">ユニクロ ららぽーと横浜店</a><span class="tag">ベビー・キッズ</span>　公式の店舗ページで確認してください　ベビーカーで約1分</li><li><a href="https://www.narumiya-online.jp/staffblog/store/s50101001/" target="_blank" rel="noopener">プティマイン ららぽーと横浜店</a><span class="tag">ベビー・キッズ</span>　平日10:00〜20:00、土日祝10:00〜21:00　ベビーカーで約1分</li><li><a href="https://stores.akachan.jp/139" target="_blank" rel="noopener">アカチャンホンポ ららぽーと横浜店</a><span class="tag">ベビー・キッズ・子どもの靴</span>　平日10:00〜20:00、土日祝10:00〜21:00　ベビーカーで約1分</li></ul><p class="small">急なおもらし・汚れの着替えや、靴を忘れたときに。時間は直線距離からのめやす。在庫・営業時間はお店で確かめてください（出典：各チェーン公式の店舗検索）。</p>

diff --git a/event/1n643jq/index.html b/event/1n643jq/index.html
@@ -64,7 +64,7 @@ footer{margin:28px 0 8px;font-size:12px;color:var(--muted)}
 <button type="button" class="btn" data-share="1">🔗 リンクを送る・コピー</button>
 <a class="btn line" href="https://line.me/R/share?text=%E3%80%90TOYLO%20PARK%20%E3%82%B5%E3%83%B3%E3%83%89%E3%82%A8%E3%83%AA%E3%82%A2%EF%BC%88%E5%B1%8B%E5%86%85%E3%81%AE%E7%A0%82%E5%A0%B4%EF%BC%89%E3%80%91%0A%E3%81%84%E3%81%A4%E3%81%A7%E3%82%82%EF%BC%88%E9%80%9A%E5%B9%B4%E3%81%AE%E6%96%BD%E8%A8%AD%EF%BC%89%E3%80%8010%3A00%E3%80%9C17%3A40%0A%E5%A0%B4%E6%89%80%EF%BC%9A%E9%83%BD%E7%AD%91%E5%8C%BA%E3%83%BB%E3%82%A4%E3%83%88%E3%83%BC%E3%83%A8%E3%83%BC%E3%82%AB%E3%83%89%E3%83%BC%20%E3%82%89%E3%82%89%E3%81%BD%E3%83%BC%E3%81%A8%E6%A8%AA%E6%B5%9C%E5%BA%97%202%E9%9A%8E%0Ahttps%3A//kidstrip.jp/event/1n643jq/" target="_blank" rel="noopener">LINEで送る</a></div>
 </article>
-<h2>歩いて10分以内のおむつ替え・授乳室・お湯</h2><table class="bm"><thead><tr><th>場所</th><th>おむつ替え</th><th>授乳室</th><th>お湯</th><th>レンジ</th></tr></thead><tbody><tr><th scope="row"><a href="/spot/1sx8mms/">ららぽーと横浜</a></th><td class="y">○</td><td class="y">○</td><td class="u">？</td><td class="y">○</td></tr></tbody></table><p class="legend">○ あり　× なし　？ 調べた範囲で確認できず</p>
+<h2>歩いて10分以内のおむつ替え・授乳室・お湯</h2><table class="bm"><thead><tr><th>場所</th><th>おむつ替え</th><th>授乳室</th><th>お湯</th><th>レンジ</th></tr></thead><tbody><tr><th scope="row"><a href="/spot/1sx8mms/">ららぽーと横浜</a></th><td class="y">○</td><td class="y">○</td><td class="y">○</td><td class="y">○</td></tr></tbody></table><p class="legend">○ あり　× なし　？ 調べた範囲で確認できず</p>
 
 <h2>歩いて10分以内の子連れで入りやすいごはん</h2><ul class="links food"><li><b>洋麺屋五右衛門 ららぽーと横浜店（3F）</b>（パスタ）　ベビーカーで約1分<span class="tag">子ども用の椅子あり</span><span class="tag">禁煙</span></li><li><b>ららぽーと横浜 フードコート</b>（フードコート）　ベビーカーで約1分</li></ul><p class="small">時間はベビーカーで歩いたときのめやす（直線距離から計算）。メニューや営業時間は行く前にお店で確かめてください。</p>
 <h2>歩いて15分以内でベビー服・子ども服・靴が買えるお店</h2><ul class="links food"><li><a href="https://mitsui-shopping-park.com/lalaport/yokohama/shopguide/2907084.html" target="_blank" rel="noopener">ABC-MART ららぽーと横浜店</a><span class="tag">子どもの靴</span>　平日10:00〜20:00、土日祝10:00〜21:00　ベビーカーで約1分</li><li><a href="https://map.gu-global.com/jp/ja/" target="_blank" rel="noopener">GU ららぽーと横浜店</a><span class="tag">キッズ</span>　公式の店舗ページで確認してください（キッズ服あり・ベビー服はなし）　ベビーカーで約1分</li><li><a href="https://map.uniqlo.com/jp/ja/" target="_blank" rel="noopener">ユニクロ ららぽーと横浜店</a><span class="tag">ベビー・キッズ</span>　公式の店舗ページで確認してください　ベビーカーで約1分</li><li><a href="https://www.narumiya-online.jp/staffblog/store/s50101001/" target="_blank" rel="noopener">プティマイン ららぽーと横浜店</a><span class="tag">ベビー・キッズ</span>　平日10:00〜20:00、土日祝10:00〜21:00　ベビーカーで約1分</li><li><a href="https://stores.akachan.jp/139" target="_blank" rel="noopener">アカチャンホンポ ららぽーと横浜店</a><span class="tag">ベビー・キッズ・子どもの靴</span>　平日10:00〜20:00、土日祝10:00〜21:00　ベビーカーで約1分</li></ul><p class="small">急なおもらし・汚れの着替えや、靴を忘れたときに。時間は直線距離からのめやす。在庫・営業時間はお店で確かめてください（出典：各チェーン公式の店舗検索）。</p>

diff --git a/event/1018ftk/index.html b/event/1018ftk/index.html
@@ -64,7 +64,7 @@ footer{margin:28px 0 8px;font-size:12px;color:var(--muted)}
 <button type="button" class="btn" data-share="1">🔗 リンクを送る・コピー</button>
 <a class="btn line" href="https://line.me/R/share?text=%E3%80%90%E3%83%9E%E3%83%9E%E3%83%8F%E3%83%94EXPO%EF%BC%88%E3%82%89%E3%82%89%E3%81%BD%E3%83%BC%E3%81%A8%E6%A8%AA%E6%B5%9C%EF%BC%89%E3%80%91%0A12%E6%9C%8816%E6%97%A5%28%E6%B0%B4%29%E3%80%8010%3A00%E3%80%9C16%3A00%0A%E5%A0%B4%E6%89%80%EF%BC%9A%E9%83%BD%E7%AD%91%E5%8C%BA%E3%83%BB%E3%82%89%E3%82%89%E3%81%BD%E3%83%BC%E3%81%A8%E6%A8%AA%E6%B5%9C%201F%20%E3%82%B5%E3%82%A6%E3%82%B9%E3%82%B3%E3%83%BC%E3%83%88%E3%83%BB%E3%82%B5%E3%82%A6%E3%82%B9%E3%82%B9%E3%83%88%E3%83%AC%E3%83%BC%E3%83%88%0Ahttps%3A//kidstrip.jp/event/1018ftk/" target="_blank" rel="noopener">LINEで送る</a></div>
 </article>
-<h2>歩いて10分以内のおむつ替え・授乳室・お湯</h2><table class="bm"><thead><tr><th>場所</th><th>おむつ替え</th><th>授乳室</th><th>お湯</th><th>レンジ</th></tr></thead><tbody><tr><th scope="row"><a href="/spot/1sx8mms/">ららぽーと横浜</a></th><td class="y">○</td><td class="y">○</td><td class="u">？</td><td class="y">○</td></tr></tbody></table><p class="legend">○ あり　× なし　？ 調べた範囲で確認できず</p>
+<h2>歩いて10分以内のおむつ替え・授乳室・お湯</h2><table class="bm"><thead><tr><th>場所</th><th>おむつ替え</th><th>授乳室</th><th>お湯</th><th>レンジ</th></tr></thead><tbody><tr><th scope="row"><a href="/spot/1sx8mms/">ららぽーと横浜</a></th><td class="y">○</td><td class="y">○</td><td class="y">○</td><td class="y">○</td></tr></tbody></table><p class="legend">○ あり　× なし　？ 調べた範囲で確認できず</p>
 
 <h2>歩いて10分以内の子連れで入りやすいごはん</h2><ul class="links food"><li><b>洋麺屋五右衛門 ららぽーと横浜店（3F）</b>（パスタ）　ベビーカーで約1分<span class="tag">子ども用の椅子あり</span><span class="tag">禁煙</span></li><li><b>ららぽーと横浜 フードコート</b>（フードコート）　ベビーカーで約1分</li></ul><p class="small">時間はベビーカーで歩いたときのめやす（直線距離から計算）。メニューや営業時間は行く前にお店で確かめてください。</p>
 <h2>歩いて15分以内でベビー服・子ども服・靴が買えるお店</h2><ul class="links food"><li><a href="https://mitsui-shopping-park.com/lalaport/yokohama/shopguide/2907084.html" target="_blank" rel="noopener">ABC-MART ららぽーと横浜店</a><span class="tag">子どもの靴</span>　平日10:00〜20:00、土日祝10:00〜21:00　ベビーカーで約1分</li><li><a href="https://map.gu-global.com/jp/ja/" target="_blank" rel="noopener">GU ららぽーと横浜店</a><span class="tag">キッズ</span>　公式の店舗ページで確認してください（キッズ服あり・ベビー服はなし）　ベビーカーで約1分</li><li><a href="https://map.uniqlo.com/jp/ja/" target="_blank" rel="noopener">ユニクロ ららぽーと横浜店</a><span class="tag">ベビー・キッズ</span>　公式の店舗ページで確認してください　ベビーカーで約1分</li><li><a href="https://www.narumiya-online.jp/staffblog/store/s50101001/" target="_blank" rel="noopener">プティマイン ららぽーと横浜店</a><span class="tag">ベビー・キッズ</span>　平日10:00〜20:00、土日祝10:00〜21:00　ベビーカーで約1分</li><li><a href="https://stores.akachan.jp/139" target="_blank" rel="noopener">アカチャンホンポ ららぽーと横浜店</a><span class="tag">ベビー・キッズ・子どもの靴</span>　平日10:00〜20:00、土日祝10:00〜21:00　ベビーカーで約1分</li></ul><p class="small">急なおもらし・汚れの着替えや、靴を忘れたときに。時間は直線距離からのめやす。在庫・営業時間はお店で確かめてください（出典：各チェーン公式の店舗検索）。</p>

diff --git a/event/1ubfhez/index.html b/event/1ubfhez/index.html
@@ -64,7 +64,7 @@ footer{margin:28px 0 8px;font-size:12px;color:var(--muted)}
 <button type="button" class="btn" data-share="1">🔗 リンクを送る・コピー</button>
 <a class="btn line" href="https://line.me/R/share?text=%E3%80%90%E3%81%93%E3%81%A9%E3%82%82%E3%81%AE%E5%9B%BD%20%E3%82%A2%E3%82%A4%E3%82%B9%E3%82%B9%E3%82%B1%E3%83%BC%E3%83%88%EF%BC%88%E5%B1%8B%E5%A4%96%E3%83%AA%E3%83%B3%E3%82%AF%EF%BC%89%E3%80%91%0A12%E6%9C%8819%E6%97%A5%28%E5%9C%9F%29%E3%83%BB12%E6%9C%8820%E6%97%A5%28%E6%97%A5%29%E3%83%BB12%E6%9C%8824%E6%97%A5%28%E6%9C%A8%29%E3%83%BB12%E6%9C%8825%E6%97%A5%28%E9%87%91%29%E3%83%BB12%E6%9C%8826%E6%97%A5%28%E5%9C%9F%29%E3%83%BB12%E6%9C%8827%E6%97%A5%28%E6%97%A5%29%E3%83%BB12%E6%9C%8828%E6%97%A5%28%E6%9C%88%29%E3%83%BB12%E6%9C%8829%E6%97%A5%28%E7%81%AB%29%E3%83%BB1%E6%9C%882%E6%97%A5%28%E5%9C%9F%29%E3%83%BB1%E6%9C%883%E6%97%A5%28%E6%97%A5%29%E3%83%BB1%E6%9C%884%E6%97%A5%28%E6%9C%88%29%E3%83%BB1%E6%9C%885%E6%97%A5%28%E7%81%AB%29%E3%83%BB1%E6%9C%889%E6%97%A5%28%E5%9C%9F%29%E3%83%BB1%E6%9C%8810%E6%97%A5%28%E6%97%A5%29%E3%83%BB1%E6%9C%8811%E6%97%A5%28%E6%9C%88%29%E3%80%8010%3A00%E3%80%9C16%3A00%EF%BC%88%E6%9C%80%E7%B5%82%E5%85%A5%E5%A0%B415%3A30%EF%BC%89%0A%E5%A0%B4%E6%89%80%EF%BC%9A%E9%9D%92%E8%91%89%E5%8C%BA%E3%83%BB%E3%81%93%E3%81%A9%E3%82%82%E3%81%AE%E5%9B%BD%20%E3%82%A2%E3%82%A4%E3%82%B9%E3%82%B9%E3%82%B1%E3%83%BC%E3%83%88%E5%A0%B4%0Ahttps%3A//kidstrip.jp/event/1ubfhez/" target="_blank" rel="noopener">LINEで送る</a></div>
 </article>
-<h2>歩いて10分以内のおむつ替え・授乳室・お湯</h2><table class="bm"><thead><tr><th>場所</th><th>おむつ替え</th><th>授乳室</th><th>お湯</th><th>レンジ</th></tr></thead><tbody><tr><th scope="row"><a href="/spot/h4ssx4/">こどもの国</a></th><td class="y">○</td><td class="y">○</td><td class="y">○</td><td class="u">？</td></tr></tbody></table><p class="legend">○ あり　× なし　？ 調べた範囲で確認できず</p>
+<h2>歩いて10分以内のおむつ替え・授乳室・お湯</h2><table class="bm"><thead><tr><th>場所</th><th>おむつ替え</th><th>授乳室</th><th>お湯</th><th>レンジ</th></tr></thead><tbody><tr><th scope="row"><a href="/spot/h4ssx4/">こどもの国</a></th><td class="y">○</td><td class="y">○</td><td class="y">○</td><td class="y">○</td></tr></tbody></table><p class="legend">○ あり　× なし　？ 調べた範囲で確認できず</p>
 <h2>行き方のめやす</h2><ul class="links"><li>🚃 最寄り こどもの国駅（東急こどもの国線（長津田から））：歩いて約3分</li><li>🅿 駐車場1か所（こどもの国 駐車場など・混みやすい）</li></ul>
 
 

diff --git a/event/1t3fmrz/index.html b/event/1t3fmrz/index.html
@@ -64,7 +64,7 @@ footer{margin:28px 0 8px;font-size:12px;color:var(--muted)}
 <button type="button" class="btn" data-share="1">🔗 リンクを送る・コピー</button>
 <a class="btn line" href="https://line.me/R/share?text=%E3%80%90%E3%81%93%E3%81%A9%E3%82%82%E3%81%AE%E5%9B%BD%20%E3%81%8A%E6%AD%A3%E6%9C%88%E3%82%AF%E3%82%A4%E3%82%BA%E3%83%A9%E3%83%AA%E3%83%BC%EF%BC%86%E3%82%B8%E3%83%A3%E3%83%B3%E3%83%9C%E9%8F%A1%E3%82%82%E3%81%A1%E3%80%91%0A12%E6%9C%8828%E6%97%A5%28%E6%9C%88%29%E3%83%BB12%E6%9C%8829%E6%97%A5%28%E7%81%AB%29%E3%83%BB1%E6%9C%882%E6%97%A5%28%E5%9C%9F%29%E3%83%BB1%E6%9C%883%E6%97%A5%28%E6%97%A5%29%E3%83%BB1%E6%9C%884%E6%97%A5%28%E6%9C%88%29%E3%83%BB1%E6%9C%885%E6%97%A5%28%E7%81%AB%29%E3%83%BB1%E6%9C%889%E6%97%A5%28%E5%9C%9F%29%E3%83%BB1%E6%9C%8810%E6%97%A5%28%E6%97%A5%29%E3%83%BB1%E6%9C%8811%E6%97%A5%28%E6%9C%88%29%E3%80%80%E3%82%B7%E3%83%BC%E3%83%88%E8%B2%A9%E5%A3%B2%E3%81%AF%E9%96%8B%E5%9C%92%E3%80%9C14%3A00%E3%80%81%E3%82%B4%E3%83%BC%E3%83%AB%E3%81%AF16%3A00%E3%81%BE%E3%81%A7%0A%E5%A0%B4%E6%89%80%EF%BC%9A%E9%9D%92%E8%91%89%E5%8C%BA%E3%83%BB%E3%81%93%E3%81%A9%E3%82%82%E3%81%AE%E5%9B%BD%EF%BC%88%E5%8F%97%E4%BB%98%EF%BC%9A%E6%AD%A3%E9%9D%A2%E5%85%A5%E5%8F%A3%E6%A1%88%E5%86%85%E6%89%80%EF%BC%89%0Ahttps%3A//kidstrip.jp/event/1t3fmrz/" target="_blank" rel="noopener">LINEで送る</a></div>
 </article>
-<h2>歩いて10分以内のおむつ替え・授乳室・お湯</h2><table class="bm"><thead><tr><th>場所</th><th>おむつ替え</th><th>授乳室</th><th>お湯</th><th>レンジ</th></tr></thead><tbody><tr><th scope="row"><a href="/spot/h4ssx4/">こどもの国</a></th><td class="y">○</td><td class="y">○</td><td class="y">○</td><td class="u">？</td></tr></tbody></table><p class="legend">○ あり　× なし　？ 調べた範囲で確認できず</p>
+<h2>歩いて10分以内のおむつ替え・授乳室・お湯</h2><table class="bm"><thead><tr><th>場所</th><th>おむつ替え</th><th>授乳室</th><th>お湯</th><th>レンジ</th></tr></thead><tbody><tr><th scope="row"><a href="/spot/h4ssx4/">こどもの国</a></th><td class="y">○</td><td class="y">○</td><td class="y">○</td><td class="y">○</td></tr></tbody></table><p class="legend">○ あり　× なし　？ 調べた範囲で確認できず</p>
 <h2>行き方のめやす</h2><ul class="links"><li>🚃 最寄り こどもの国駅（東急こどもの国線（長津田から））：歩いて約3分</li><li>🅿 駐車場1か所（こどもの国 駐車場など・混みやすい）</li></ul>
 
 

diff --git a/event/1lvhwnw/index.html b/event/1lvhwnw/index.html
@@ -64,7 +64,7 @@ footer{margin:28px 0 8px;font-size:12px;color:var(--muted)}
 <button type="button" class="btn" data-share="1">🔗 リンクを送る・コピー</button>
 <a class="btn line" href="https://line.me/R/share?text=%E3%80%90%E3%81%93%E3%81%A9%E3%82%82%E3%81%AE%E5%9B%BD%20%E3%83%93%E3%82%B8%E3%82%BF%E3%83%BC%E3%82%BB%E3%83%B3%E3%82%BF%E3%83%BC%E3%80%8C%E3%81%BF%E3%81%AB%E3%81%8A%E3%81%AF%E3%81%AA%E3%81%97%E4%BC%9A%E3%80%8D%E3%80%91%0A11%E6%9C%8822%E6%97%A5%28%E6%97%A5%29%E3%83%BB11%E6%9C%8829%E6%97%A5%28%E6%97%A5%29%E3%83%BB12%E6%9C%886%E6%97%A5%28%E6%97%A5%29%E3%83%BB12%E6%9C%8813%E6%97%A5%28%E6%97%A5%29%E3%83%BB12%E6%9C%8820%E6%97%A5%28%E6%97%A5%29%E3%83%BB12%E6%9C%8827%E6%97%A5%28%E6%97%A5%29%E3%83%BB1%E6%9C%883%E6%97%A5%28%E6%97%A5%29%E3%83%BB1%E6%9C%8810%E6%97%A5%28%E6%97%A5%29%E3%83%BB1%E6%9C%8817%E6%97%A5%28%E6%97%A5%29%E3%80%8014%3A00%E3%81%8B%E3%82%8910%E5%88%86%E3%81%BB%E3%81%A9%0A%E5%A0%B4%E6%89%80%EF%BC%9A%E9%9D%92%E8%91%89%E5%8C%BA%E3%83%BB%E3%81%93%E3%81%A9%E3%82%82%E3%81%AE%E5%9B%BD%20%E3%83%93%E3%82%B8%E3%82%BF%E3%83%BC%E3%82%BB%E3%83%B3%E3%82%BF%E3%83%BC%0Ahttps%3A//kidstrip.jp/event/1lvhwnw/" target="_blank" rel="noopener">LINEで送る</a></div>
 </article>
-<h2>歩いて10分以内のおむつ替え・授乳室・お湯</h2><table class="bm"><thead><tr><th>場所</th><th>おむつ替え</th><th>授乳室</th><th>お湯</th><th>レンジ</th></tr></thead><tbody><tr><th scope="row"><a href="/spot/h4ssx4/">こどもの国</a></th><td class="y">○</td><td class="y">○</td><td class="y">○</td><td class="u">？</td></tr></tbody></table><p class="legend">○ あり　× なし　？ 調べた範囲で確認できず</p>
+<h2>歩いて10分以内のおむつ替え・授乳室・お湯</h2><table class="bm"><thead><tr><th>場所</th><th>おむつ替え</th><th>授乳室</th><th>お湯</th><th>レンジ</th></tr></thead><tbody><tr><th scope="row"><a href="/spot/h4ssx4/">こどもの国</a></th><td class="y">○</td><td class="y">○</td><td class="y">○</td><td class="y">○</td></tr></tbody></table><p class="legend">○ あり　× なし　？ 調べた範囲で確認できず</p>
 <h2>行き方のめやす</h2><ul class="links"><li>🚃 最寄り こどもの国駅（東急こどもの国線（長津田から））：歩いて約3分</li><li>🅿 駐車場1か所（こどもの国 駐車場など・混みやすい）</li></ul>
 
 
